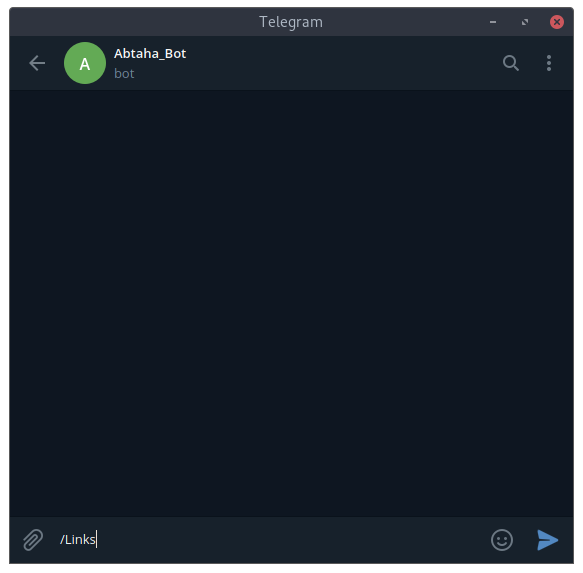
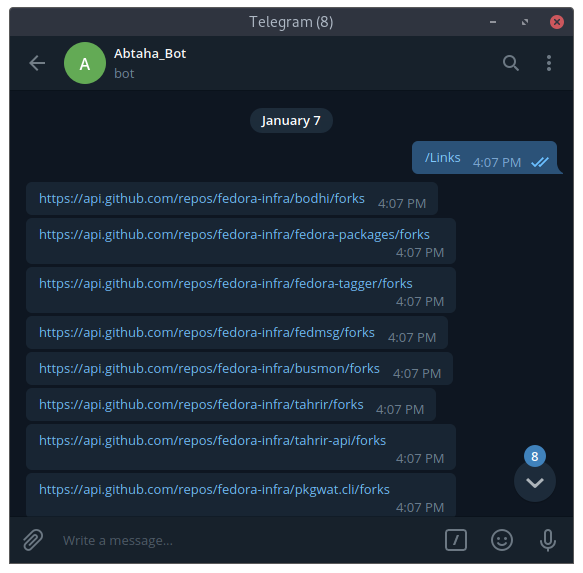
Added Arguments

diff --git a/main.py b/main.py
@@ -6,10 +6,8 @@ from telegram.ext import CommandHandler
 
 def getLinks(data):
     links = []
-    for a in data:
-        for x in a.items():
-            if x[0] == 'forks_url':
-                links.append(x[1] + "\n")
+    for entry in data:
+        links.append([entry['name'], entry['forks_url']])
     return links
 
 def getData(url):
@@ -20,9 +18,21 @@ data = getData('https://api.github.com/orgs/fedora-infra/repos')
 links = getLinks(data)
 
 
-def sendLinks(update, context):
-    for link in links:
-        context.bot.send_message(chat_id=update.effective_chat.id, text=link)
+def sendForks(update, context):
+    args = "".join(context.args).strip()
+    if args == "":
+        for link in links:
+            context.bot.send_message(chat_id=update.effective_chat.id, text=link[1])
+    else:
+        # These are the links by that particular person
+        sub_links = []
+        for link in links:
+            if link[0] == args:
+                sub_links.append(link[1])
+        
+        sub_links.insert(0, f'{args} has {len(sub_links)} repos. They are: ')
+        sub_links = "\n".join(sub_links)
+        context.bot.send_message(chat_id=update.effective_chat.id, text=sub_links)
 
 updater = Updater(token='1056953929:AAGKVZpg4OR6NgQMeGesXl9u2nfjMRJMocc', use_context=True)
 dispatcher = updater.dispatcher
@@ -31,7 +41,7 @@ logging.basicConfig(format='%(asctime)s - %(name)s - %(levelname)s - %(message)s
                      level=logging.INFO)
 
 
-start_handler = CommandHandler('Links', sendLinks)
+start_handler = CommandHandler('forks', sendForks)
 dispatcher.add_handler(start_handler)
 
 updater.start_polling()
